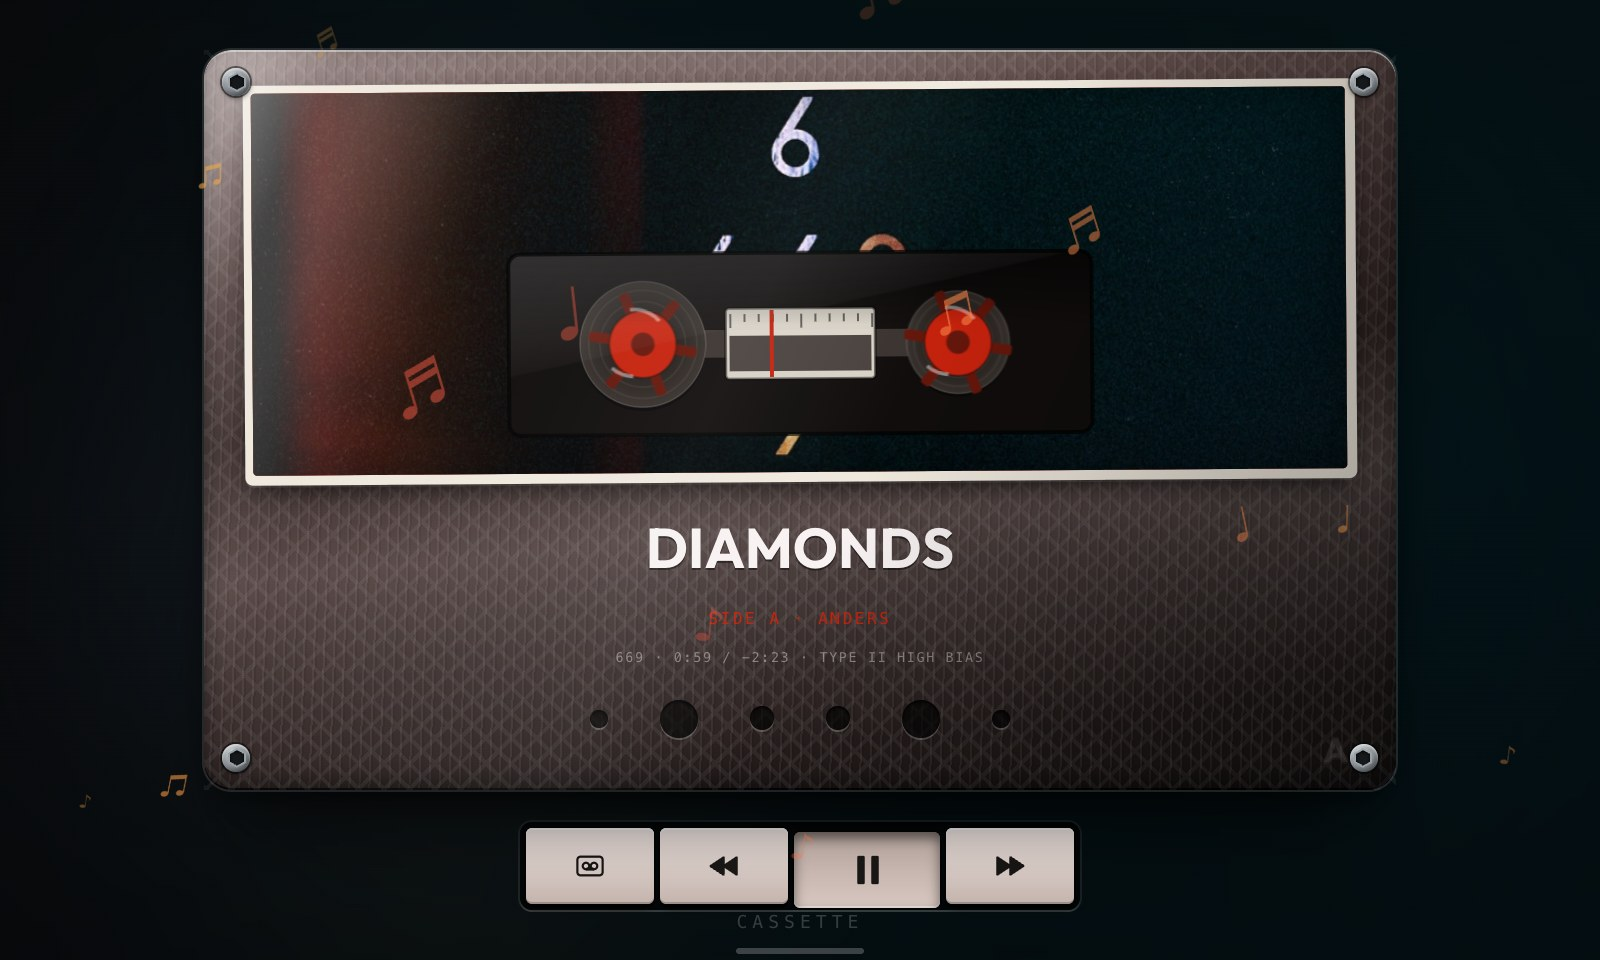
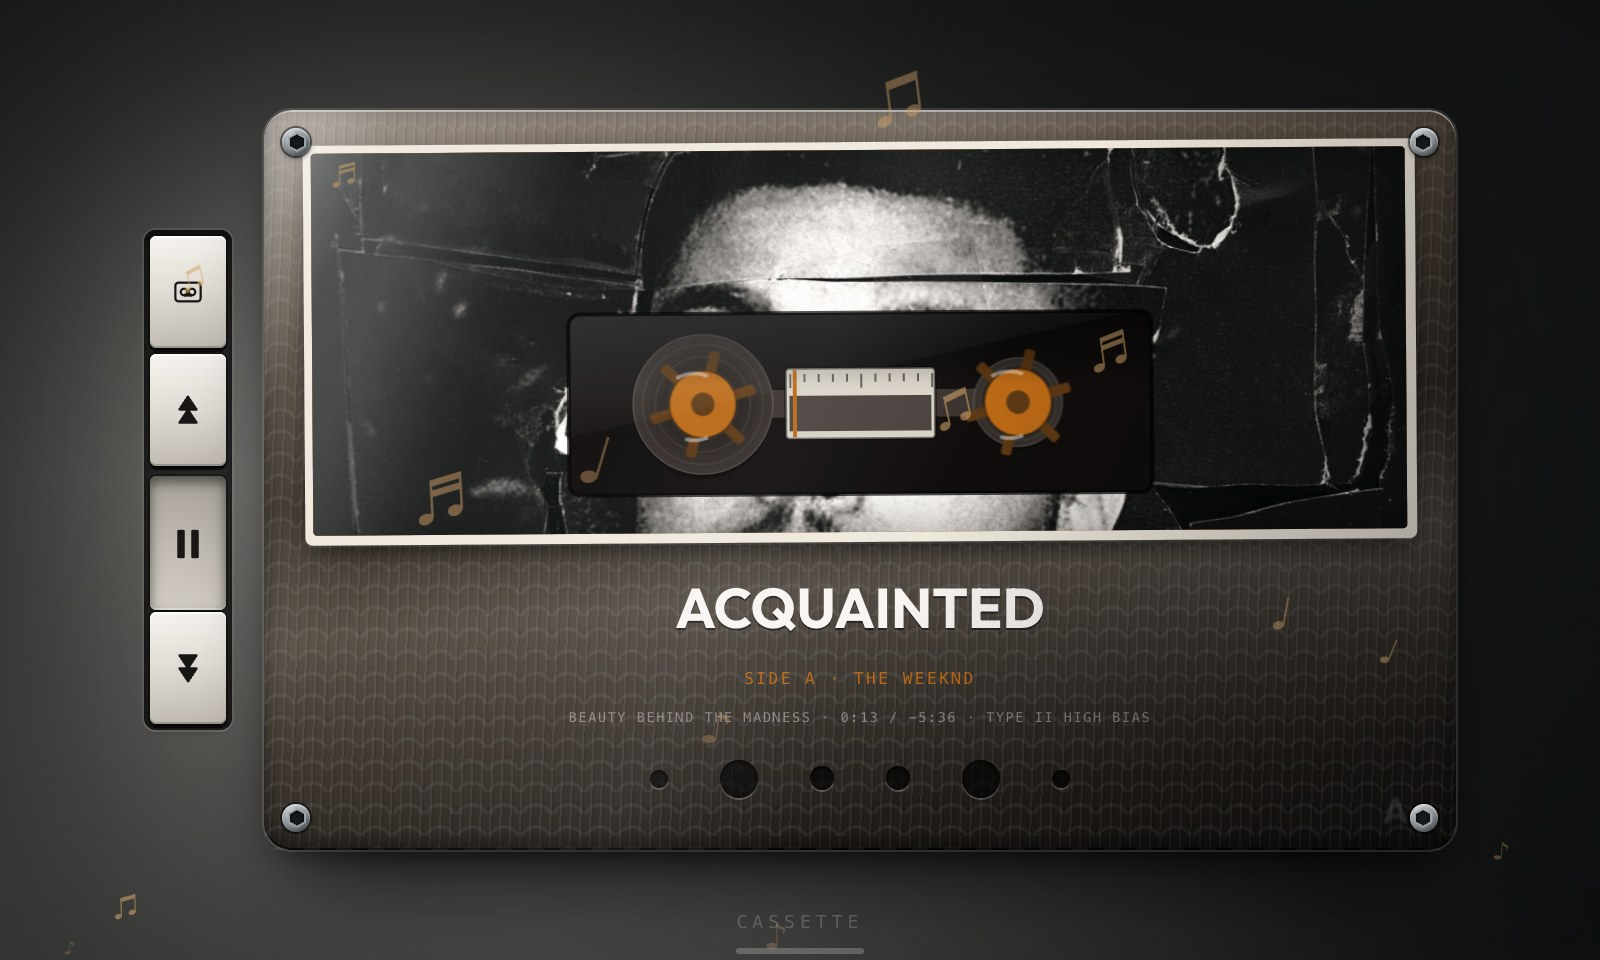
MusicPlayerV1: retake the screenshots, and fix the settings section's old names
The Lyrics and cassette shots were taken before the transport moved to
the bottom, the lines were graded, the shadows came off and the keys
stood up on the left, so both are retaken.

The settings section still called Cover by its old name, Classic, in two
places, said nothing about the Vinyl record's colour, and named a style
that has not existed for a while in the seek paragraph.

Claude-Session: https://claude.ai/code/session_012JRXF2mEQKvmmzodFqkLkT

diff --git a/README.md b/README.md
@@ -309,9 +309,9 @@ outside the list, because it decides what the rest of the list holds, and everyt
 applies to the style you are in is gathered under that style's name. Poster has no such group: it
 has no settings of its own. A rail down the left edge shows where you are in the list.
 
-- **Player** — style, accent colour, HD album art, the art pulse with its tempo, whether the
-  Classic style's art runs to the edge of the screen, and which cassette design is on, with or
-  without the cover on its label
+- **Player** — style, accent colour, HD album art, the art pulse with its tempo, whether Cover's art
+  runs to the edge of the screen, the colour the Vinyl record is pressed in, and which cassette
+  design is on, with or without the cover on its label
 - **Controls** — what the wheel does, how far each click seeks, the seek bar and its playhead dot,
   and whether the on-screen transport buttons are drawn at all
 - **Backdrop** — how strongly the blurred art tints the screen, how far out of focus it is, and how
@@ -321,8 +321,8 @@ has no settings of its own. A rail down the left edge shows where you are in the
 - **Clock** — position, size, 12 or 24 hour, and seconds
 - **About** — check whether a newer version has been published
 
-Both seek settings sit on **Auto**, which gives Classic and Poster the wave and Vinyl a line, and
-draws the playhead dot everywhere except Cover. Cover always draws a line whatever you pick.
+Both seek settings sit on **Auto**, which gives Poster the wave and Vinyl a line, and draws the
+playhead dot everywhere except Cover. Cover always draws a line whatever you pick.
 
 A few seconds into a track the player offers to hide the on-screen buttons, since the presets do the
 same job. The note has a box to stop it asking again, and **Controls → Offer to hide them** turns it
